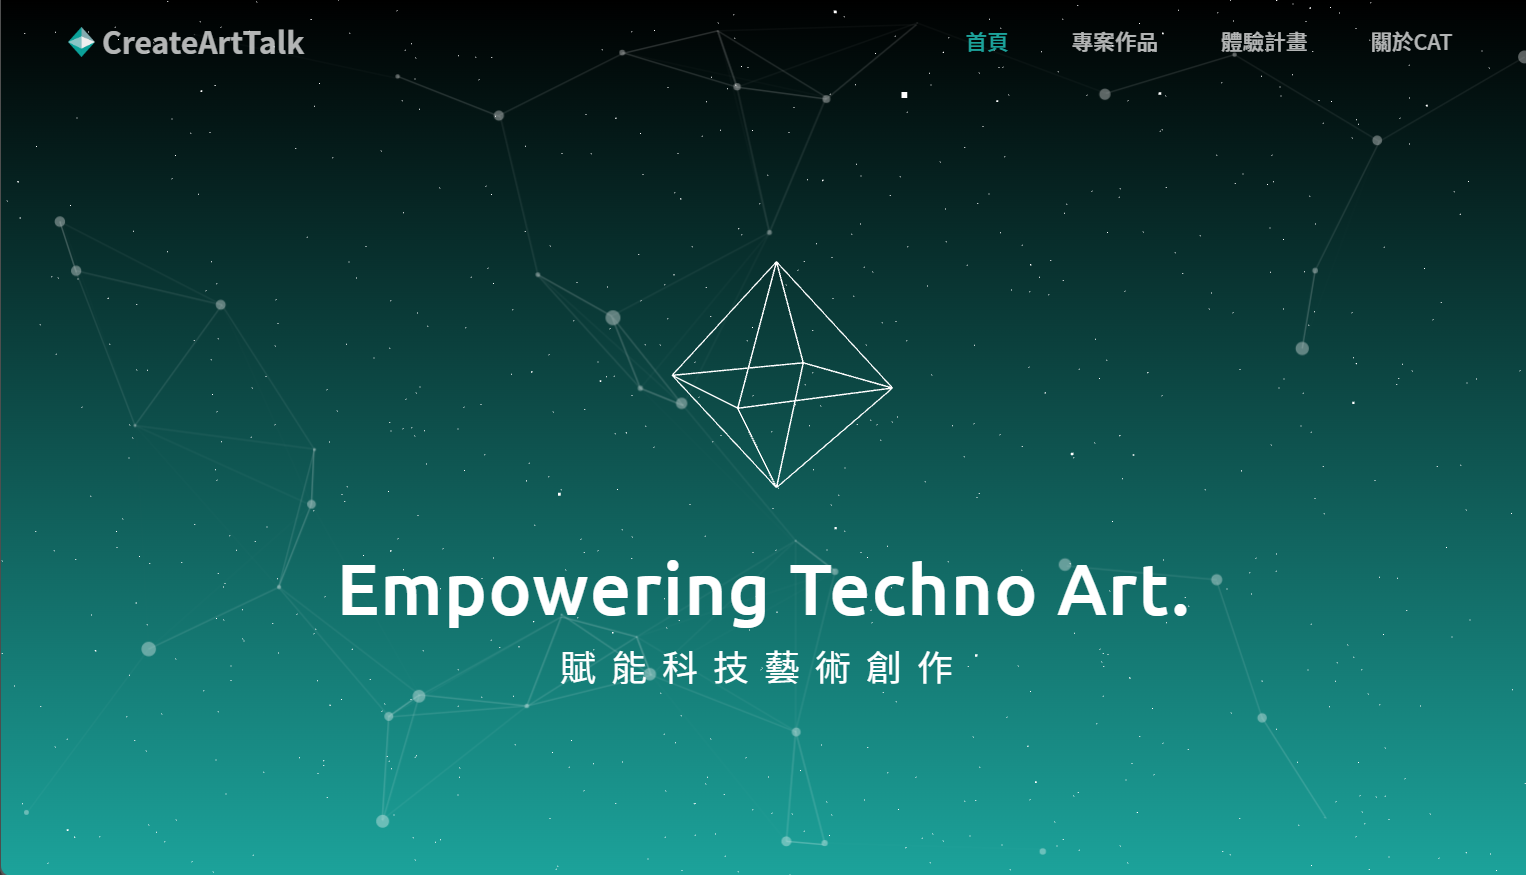
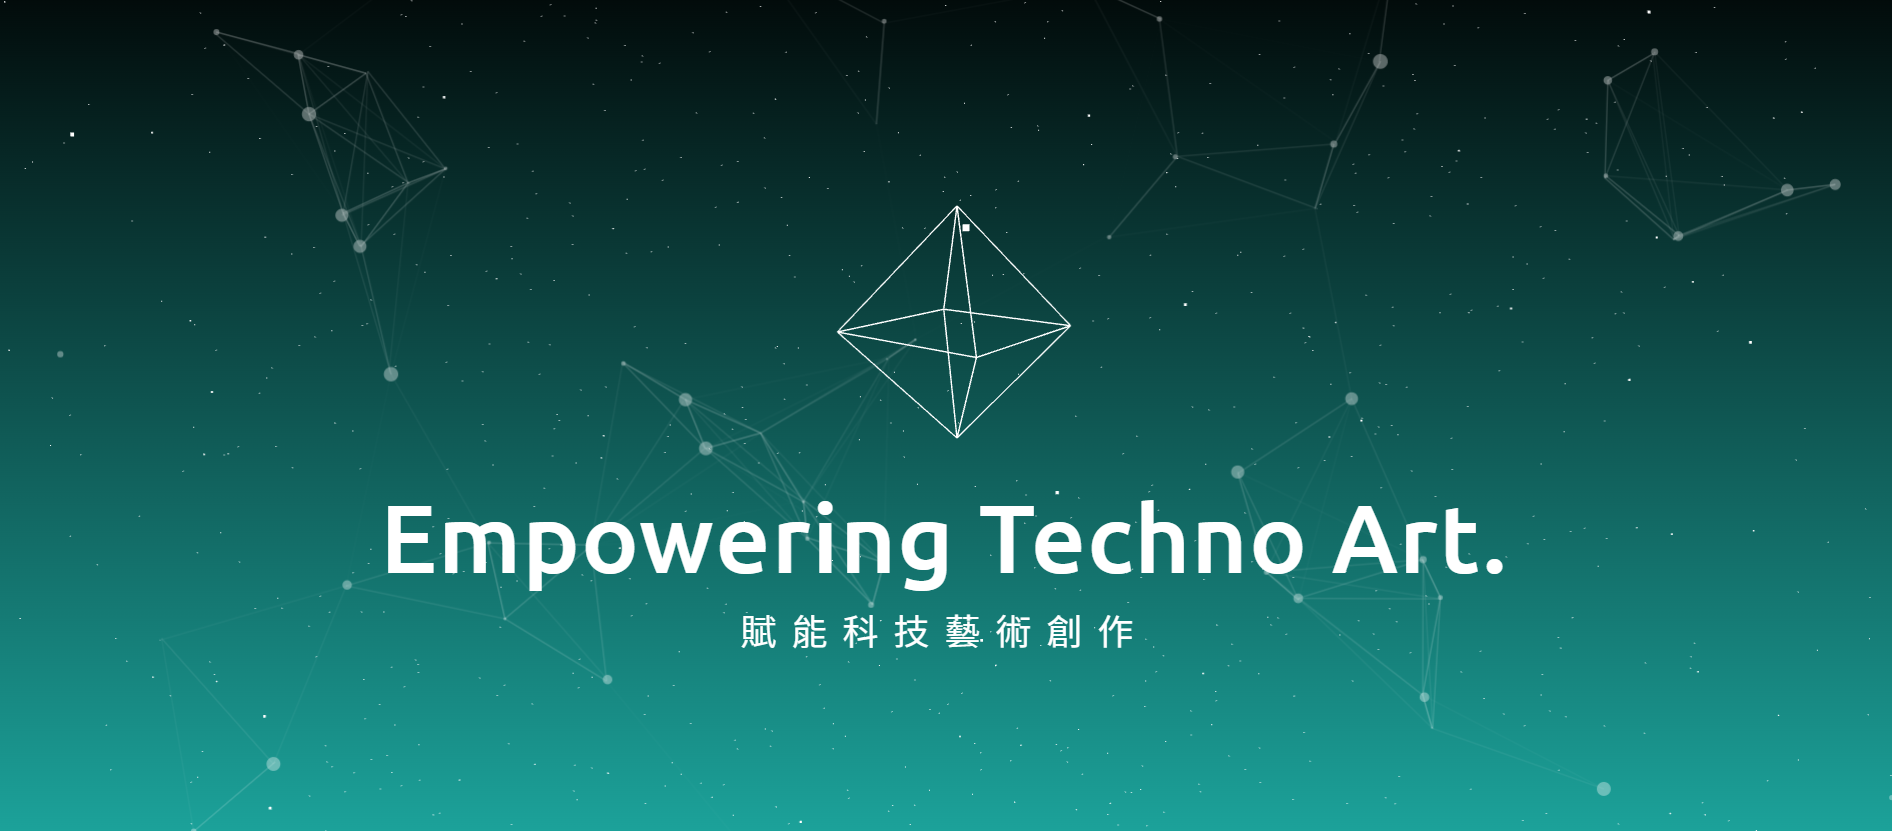
createarttalk project

diff --git a/project/createarttalk.html b/project/createarttalk.html
@@ -98,7 +98,9 @@
 
     <div id="list-example" class="list-group col-lg-2">
         <a class="list-group-item list-group-item-action" href="#overview">總覽</a>
-        <a class="list-group-item list-group-item-action" href="#process">設計過程</a>
+        <a class="list-group-item list-group-item-action" href="#front-end">前端設計</a>
+        <a class="list-group-item list-group-item-action" href="#taicca">文策院加速器</a>
+        <!-- <a class="list-group-item list-group-item-action" href="#taicca">文策院加速器</a> -->
         <a class="ms-3 list-group-item list-group-item-action" href="#good-night">晚安</a>
         <a class="ms-3 list-group-item list-group-item-action" href="#light-sleep">淺眠期</a>
         <a class="ms-3 list-group-item list-group-item-action" href="#rapid-eye">快速動眼期</a>
@@ -115,142 +117,98 @@
                     <div class="col-lg-8 my-3">
                         <h3 class="page-heading"><strong>團隊介紹</strong></h3>
                         <div class="content-black">
-                            <p>CreateArtTalk 為國立陽明交通大學 IoT 技術與科技藝術跨領域實驗團隊技轉出發之新創團隊，由兩位教授：陽交大資工系林一平教授與南藝大羅禾淋教授擔任團隊總技術顧問，團隊成員主要由跨領域學生組成。</p>
+                            <p>CreateArtTalk 為國立陽明交通大學 IoT 技術與科技藝術跨領域實驗團隊技轉出發之新創團隊，由兩位教授：國立陽明交通大學林一平教授與國立臺南藝術大學羅禾淋教授擔任團隊總技術顧問，而團隊成員主要由跨領域學生組成。</p>
                         </div>
                     </div>
-                    <div class="col-lg-8 my-3">
-                        <h3 class="page-heading"><strong>挑戰</strong></h3>
-                        <div class="row dding mt-2 ">
-                            <ui class="content-black ">
-                                <li class="mb-2">整合團隊現有資料，製作靜態前端網頁</li>
-                                <li class="my-2">文策院文化新創加速器第三期結案</li>
-                                <li class="my-2">統整現有系統流程，規劃未來產品</li>
-                            </ui>
-                        </div>
-                    </div>
-
                     <div class="col-lg-8 my-3">
                         <h3 class="page-heading"><strong>負責工作</strong></h3>
-                        <div class="content-black">
-                            <p>與三位同學合作製作此展演專題。我負責主題的發想與淺眠期光影撥弦效果製作，包含夢境各階段的構思與呈現意象，以及實作 Touch Designer 結合 Kinect 偵測人影的效果。</p>
-                        </div>
-                        <div class="d-flex justify-content-center">
-                            <img class="my-4 img-margin " width="100% " src="../img/special-project/dream/work-dream.png" alt="夢中夢 負責工作 ">
+                        <div class="row list-padding mt-2 ">
+                            <ui class="content-black ">
+                                <li class="mb-2">整合團隊現有資料，製作靜態前端網頁</li>
+                                <li class="my-2">文策院文化新創加速器第三期 Demo Day 發表</li>
+                                <li class="my-2">統整現有系統流程，規劃未來產品</li>
+                            </ui>
                         </div>
                     </div>
                 </div>
             </div>
         </section>
 
-        <section id="process" class="list-item">
+        <section id="process" class="list-item" style="background-color: #f7f7f7;">
             <div class="container">
-                <h4 class="heading my-4 project-heading">設計過程 Process</h4>
+                <h4 class="heading my-4 project-heading">前端設計 Front-end Design</h4>
                 <div class="row justify-content-center">
                     <div class="col-lg-8 my-3">
-                        <h3 class="page-heading"><strong>夢中夢：夢境四階段</strong></h3>
-                        <div class="content-black">
-                            <p>「夢中夢」將夢境切分為四階段：晚安、淺眠期、快速眼動期、熟睡期。
-                            </p>
-                            <p>從半夢半醒至逐漸沉睡；從昏眩至掌控；從黑白至炫彩；從緩慢至急促，逐漸引導觀眾進入深沉睡眠。
-                            </p>
+                        <h3 class="page-heading"><strong><span>CreateArtTalk</span> 官網</strong></h3>
+                        <div class="row list-padding mt-2 ">
+                            <ui class="content-black ">
+                                <li class="mb-2">獨力完成網頁前端設計，使用 HTML、CSS、Javascript、jQuery 製作網頁</li>
+                                <li class="mb-2">首頁採用 three.js、particle.js 製作 banner</li>
+                                <li class="my-2">整合團隊目前作品，撰寫文稿與版型排版設計</li>
+                            </ui>
                         </div>
-                        <div id="good-night" class="mt-5">
-                            <h3 class="page-heading mb-3 "><strong>01 晚安</strong></h3>
-                            <div class="content-black">
-                                <p>透過<span>互動式按鈕</span>來象徵按下開關來關燈，作為<span>夢境的起點</span>。再來是彩色隧道，透過速度以及色彩變化來讓觀者了解，此處即將進入一個虛幻、不真實的夢境世界。
-                                </p>
-                            </div>
-
-                            <div class="row justify-content-start">
-                                <div class="col-lg-8 col-md-8 col-sm-12">
-                                    <img class="my-4 img-margin " width="100% " src="../img/special-project/dream/start1-dream.png" alt="夢中夢 晚安 ">
-                                </div>
-                            </div>
-                            <div class="row justify-content-end">
-                                <div class="col-lg-8 col-md-8 col-sm-12">
-                                    <img class="my-4 img-margin " width="100% " src="../img/special-project/dream/start2-dream.png" alt="夢中夢 晚安 ">
-                                </div>
+                        <div class="d-flex justify-content-center ">
+                            <img class="my-4 img-margin" width="100% " src="../img/special-project/createarttalk/sitmap-cat.png" alt="createarttalk 網頁架構圖">
+                        </div>
+                        <div class="row justify-content-start">
+                            <div class="col-lg-8 col-md-6 col-sm-12">
+                                <img class="mt-4 mb-2 img-margin " width="100% " src="../img/special-project/createarttalk/front1-cat.png" alt="createarttalk 首頁">
                             </div>
                         </div>
-
-                        <div id="light-sleep" class="mt-5">
-                            <h3 class="page-heading mb-3 "><strong>02 淺眠期</strong></h3>
-                            <div class="content-black">
-                                <p>入睡初期，人處於半夢半醒的狀態，夢並不豐富，僅呈現黑白。 透過<span>互動式的可波動線條、隨人影舞動的粒子光影，打造夢境世界</span>，使其能更沉浸其中，進入更深度的睡眠狀態。
-                                </p>
+                        <div class="row justify-content-end">
+                            <div class="col-lg-8 col-md-6 col-sm-12">
+                                <img class="my-3 img-margin " width="100% " src="../img/special-project/createarttalk/front2-cat.png" alt="createarttalk 首頁">
                             </div>
-
-                            <div class="row justify-content-center">
-                                <div class="col-lg-8 col-md-8 col-sm-12">
-                                    <img class="my-4 img-margin " width="100% " src="../img/special-project/dream/cover-dream.png" alt="夢中夢 淺眠期 ">
-                                </div>
+                        </div>
+                        <div class="row justify-content-start">
+                            <div class="col-lg-8 col-md-6 col-sm-12">
+                                <img class="my-3 img-margin " width="100% " src="../img/special-project/createarttalk/front6-cat.png" alt="createarttalk 專案頁">
+                            </div>
+                        </div>
+                        <div class="row justify-content-end">
+                            <div class="col-lg-8 col-md-6 col-sm-12">
+                                <img class="my-3 img-margin " width="100% " src="../img/special-project/createarttalk/front4-cat.png" alt="createarttalk 首頁">
+                            </div>
+                        </div>
+                        <div class="row justify-content-start">
+                            <div class="col-lg-8 col-md-6 col-sm-12">
+                                <img class="my-3 img-margin " width="100% " src="../img/special-project/createarttalk/front5-cat.png" alt="createarttalk 首頁">
                             </div>
                         </div>
 
-                        <div id="rapid-eye" class="mt-5">
-                            <h3 class="page-heading mb-3 "><strong>03 快速動眼期</strong></h3>
-                            <div class="content-black">
-                                <p>在此睡眠階段中，眼球會快速移動，腦部的活動很活躍，大部分的夢也都是在這個階段發生。使用<span>鮮豔的色彩、流動的抽象圖形</span>，搭配快節奏音樂呈現此階段的<span>迷幻動態感</span>，讓觀眾迷失在夢境的世界中。
-                                </p>
-                            </div>
-
-                            <div class="row justify-content-end">
-                                <div class="col-lg-8 col-md-8 col-sm-12">
-                                    <img class="my-4 img-margin " width="100% " src="../img/special-project/dream/fast1-dream.png" alt="夢中夢 快速動眼期">
-                                </div>
-                            </div>
-                            <div class="row justify-content-start">
-                                <div class="col-lg-8 col-md-8 col-sm-12">
-                                    <img class="my-4 img-margin " width="100% " src="../img/special-project/dream/fast2-dream.png" alt="夢中夢 快速動眼期">
-                                </div>
-                            </div>
-                        </div>
-
-                        <div id="deep-sleep" class="mt-5">
-                            <h3 class="page-heading mb-3 "><strong>04 熟睡期</strong></h3>
-                            <div class="content-black">
-                                <p>此階段我們慢慢失去自主的控制權，夢夢漸入尾聲，畫面也從簡單平穩變為複雜而混亂。<span>配合音樂轉換視覺及互動效果</span>，透過線條與立體粒子變化，讓情緒最高處收尾，把人快速拉回現實。
-                                </p>
-                            </div>
-
-                            <div class="row justify-content-start">
-                                <div class="col-lg-8 col-md-8 col-sm-12">
-                                    <img class="my-4 img-margin " width="100% " src="../img/special-project/dream/sleep1-dream.png" alt="夢中夢 熟睡期">
-                                </div>
-                            </div>
-                            <div class="row justify-content-end">
-                                <div class="col-lg-8 col-md-8 col-sm-12">
-                                    <img class="my-4 img-margin " width="100% " src="../img/special-project/dream/sleep2-dream.png" alt="夢中夢 熟睡期">
-                                </div>
-                            </div>
-                        </div>
 
                     </div>
-                    <!-- 
-
-
-                    <div id="conclusion" class="col-lg-8 my-5">
-                        <h3 class="page-heading mb-3 "><strong>06 結論</strong></h3>
-                        <div class="content-black">
-                            <p>在使用者測試後得到的實質回饋，得以協助我們修正網站的缺失，提醒我們未能發掘的觀點，於以在未來改善修正成擁有良好使用者體驗的網站。
-                                </strong>
-                            </p>
-                        </div>
-                    </div>
-                </div> -->
+                </div>
         </section>
 
-        <section id="performance" class="list-item " style="background-color: #f7f7f7; ">
+        <section id="taicca" class="list-item ">
             <div class="container ">
-                <h4 class="heading my-4 project-heading ">展演成果 Performance</h4>
+                <h4 class="heading my-4 project-heading ">文策院加速器 Taicca </h4>
                 <div class="row justify-content-center ">
                     <div class="col-lg-8 my-3 ">
+                        <h3 class="page-heading my-2"><strong>第三期文化創業加速器</strong></h3>
+                        <div class="row list-padding mt-2 ">
+                            <ui class="content-black ">
+                                <li class="mb-2">協助團隊進行文策院加速器新創專案規劃，負責海報設計、募資簡報製作與 <span>Meet Taipei 公開發表提案</span>，於投資媒合會成功吸引兩家投資商注意與拉拔團隊意願。</li>
+                                <li class="mb-2">參與 37 學分<span>新創營運課程</span>，內容包含商業模式建立、目標市場訂定、組織經營、財務管理等，有助於了解新創生態，與協助團隊在初創期進行經營模式規劃。</li>
+                            </ui>
+                        </div>
 
-                        <h3 class="text-center page-heading mb-3"><strong>透過相同技術，搭配不同音樂與編舞，展現多元夢境樣貌。</strong></h3>
-                        <iframe class="dream-iframe my-2" width="100%" height="400" src="https://www.youtube.com/embed/a_V6Be4o2uY" title="YouTube video player" frameborder="0" allow="accelerometer; autoplay; clipboard-write; encrypted-media; gyroscope; picture-in-picture; web-share"
-                            allowfullscreen></iframe>
-                        <iframe class="dream-iframe my-2" width="100%" height="400" src="https://www.youtube.com/embed/V1vwl2SPlSQ" title="YouTube video player" frameborder="0" allow="accelerometer; autoplay; clipboard-write; encrypted-media; gyroscope; picture-in-picture; web-share"
-                            allowfullscreen></iframe>
+                        <div class="row justify-content-start">
+                            <div class="col-lg-8 col-md-8 col-sm-12">
+                                <img class="my-3 img-margin " width="100% " src="../img/special-project/createarttalk/demo1-cat.JPG" alt="文化創新加速器 課程">
+                            </div>
+                        </div>
+                        <div class="row justify-content-end">
+                            <div class="col-lg-8 col-md-8 col-sm-12">
+                                <img class="my-3 img-margin " width="100% " src="../img/special-project/createarttalk/demo2-cat.JPG" alt="文化創新加速器 課程">
+                            </div>
+                        </div>
+                        <div class="row justify-content-start">
+                            <div class="col-lg-8 col-md-8 col-sm-12">
+                                <img class="my-3 img-margin " width="100% " src="../img/special-project/createarttalk/course-cat.jpg" alt="文化創新加速器 課程">
+                            </div>
+                        </div>
                     </div>
                 </div>
             </div>

diff --git a/project/dream.html b/project/dream.html
@@ -157,12 +157,12 @@
 
                             <div class="row justify-content-start">
                                 <div class="col-lg-8 col-md-8 col-sm-12">
-                                    <img class="my-4 img-margin " width="100% " src="../img/special-project/dream/start1-dream.png" alt="夢中夢 晚安 ">
+                                    <img class="my-2 img-margin " width="100% " src="../img/special-project/dream/start1-dream.png" alt="夢中夢 晚安 ">
                                 </div>
                             </div>
                             <div class="row justify-content-end">
                                 <div class="col-lg-8 col-md-8 col-sm-12">
-                                    <img class="my-4 img-margin " width="100% " src="../img/special-project/dream/start2-dream.png" alt="夢中夢 晚安 ">
+                                    <img class="mt-3 mb-4 img-margin " width="100% " src="../img/special-project/dream/start2-dream.png" alt="夢中夢 晚安 ">
                                 </div>
                             </div>
                         </div>
@@ -190,12 +190,12 @@
 
                             <div class="row justify-content-end">
                                 <div class="col-lg-8 col-md-8 col-sm-12">
-                                    <img class="my-4 img-margin " width="100% " src="../img/special-project/dream/fast1-dream.png" alt="夢中夢 快速動眼期">
+                                    <img class="my-2 img-margin " width="100% " src="../img/special-project/dream/fast1-dream.png" alt="夢中夢 快速動眼期">
                                 </div>
                             </div>
                             <div class="row justify-content-start">
                                 <div class="col-lg-8 col-md-8 col-sm-12">
-                                    <img class="my-4 img-margin " width="100% " src="../img/special-project/dream/fast2-dream.png" alt="夢中夢 快速動眼期">
+                                    <img class="mt-3 mb-4 img-margin " width="100% " src="../img/special-project/dream/fast2-dream.png" alt="夢中夢 快速動眼期">
                                 </div>
                             </div>
                         </div>
@@ -209,29 +209,17 @@
 
                             <div class="row justify-content-start">
                                 <div class="col-lg-8 col-md-8 col-sm-12">
-                                    <img class="my-4 img-margin " width="100% " src="../img/special-project/dream/sleep1-dream.png" alt="夢中夢 熟睡期">
+                                    <img class="my-2 img-margin " width="100% " src="../img/special-project/dream/sleep1-dream.png" alt="夢中夢 熟睡期">
                                 </div>
                             </div>
                             <div class="row justify-content-end">
                                 <div class="col-lg-8 col-md-8 col-sm-12">
-                                    <img class="my-4 img-margin " width="100% " src="../img/special-project/dream/sleep2-dream.png" alt="夢中夢 熟睡期">
+                                    <img class="mt-3 mb-4 img-margin " width="100% " src="../img/special-project/dream/sleep2-dream.png" alt="夢中夢 熟睡期">
                                 </div>
                             </div>
                         </div>
 
                     </div>
-                    <!-- 
-
-
-                    <div id="conclusion" class="col-lg-8 my-5">
-                        <h3 class="page-heading mb-3 "><strong>06 結論</strong></h3>
-                        <div class="content-black">
-                            <p>在使用者測試後得到的實質回饋，得以協助我們修正網站的缺失，提醒我們未能發掘的觀點，於以在未來改善修正成擁有良好使用者體驗的網站。
-                                </strong>
-                            </p>
-                        </div>
-                    </div>
-                </div> -->
         </section>
 
         <section id="performance" class="list-item " style="background-color: #f7f7f7; ">

diff --git a/project/exshare.html b/project/exshare.html
@@ -213,7 +213,6 @@
                     <div id="Hi-fi" class="col-lg-8 my-3 ">
                         <h3 class="page-heading my-3 "><strong>04 骨架層 - 網站原型 <span>Hi-fi</span></strong></h3>
                         <div class="content-black">
-
                             <p>透過 Figma 合作繪製原型與互動效果，以利後續測試</strong>
                             </p>
                         </div>

diff --git a/project/project.css b/project/project.css
@@ -190,6 +190,10 @@
         background-size: cover;
         background-position-y: -15vw;
     }
+    #createarttalk {
+        background: url(../img/special-project/createarttalk/cover-m-cat.png) no-repeat center fixed;
+        background-size: cover;
+    }
     .project-page {
         display: flex;
         align-items: end;
